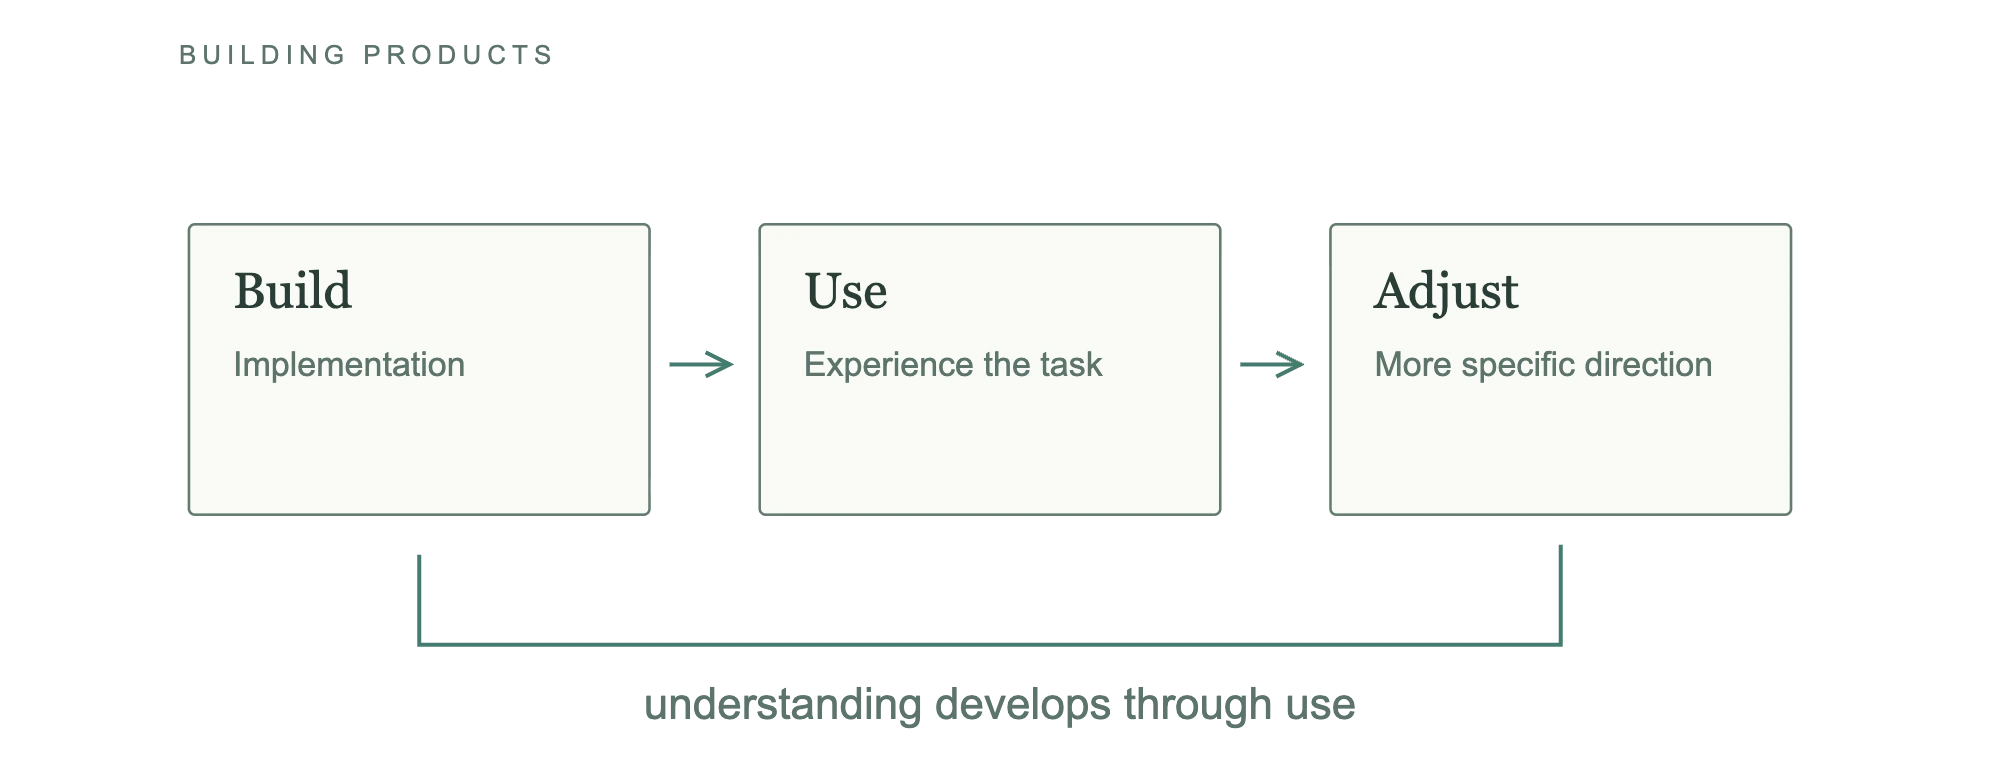
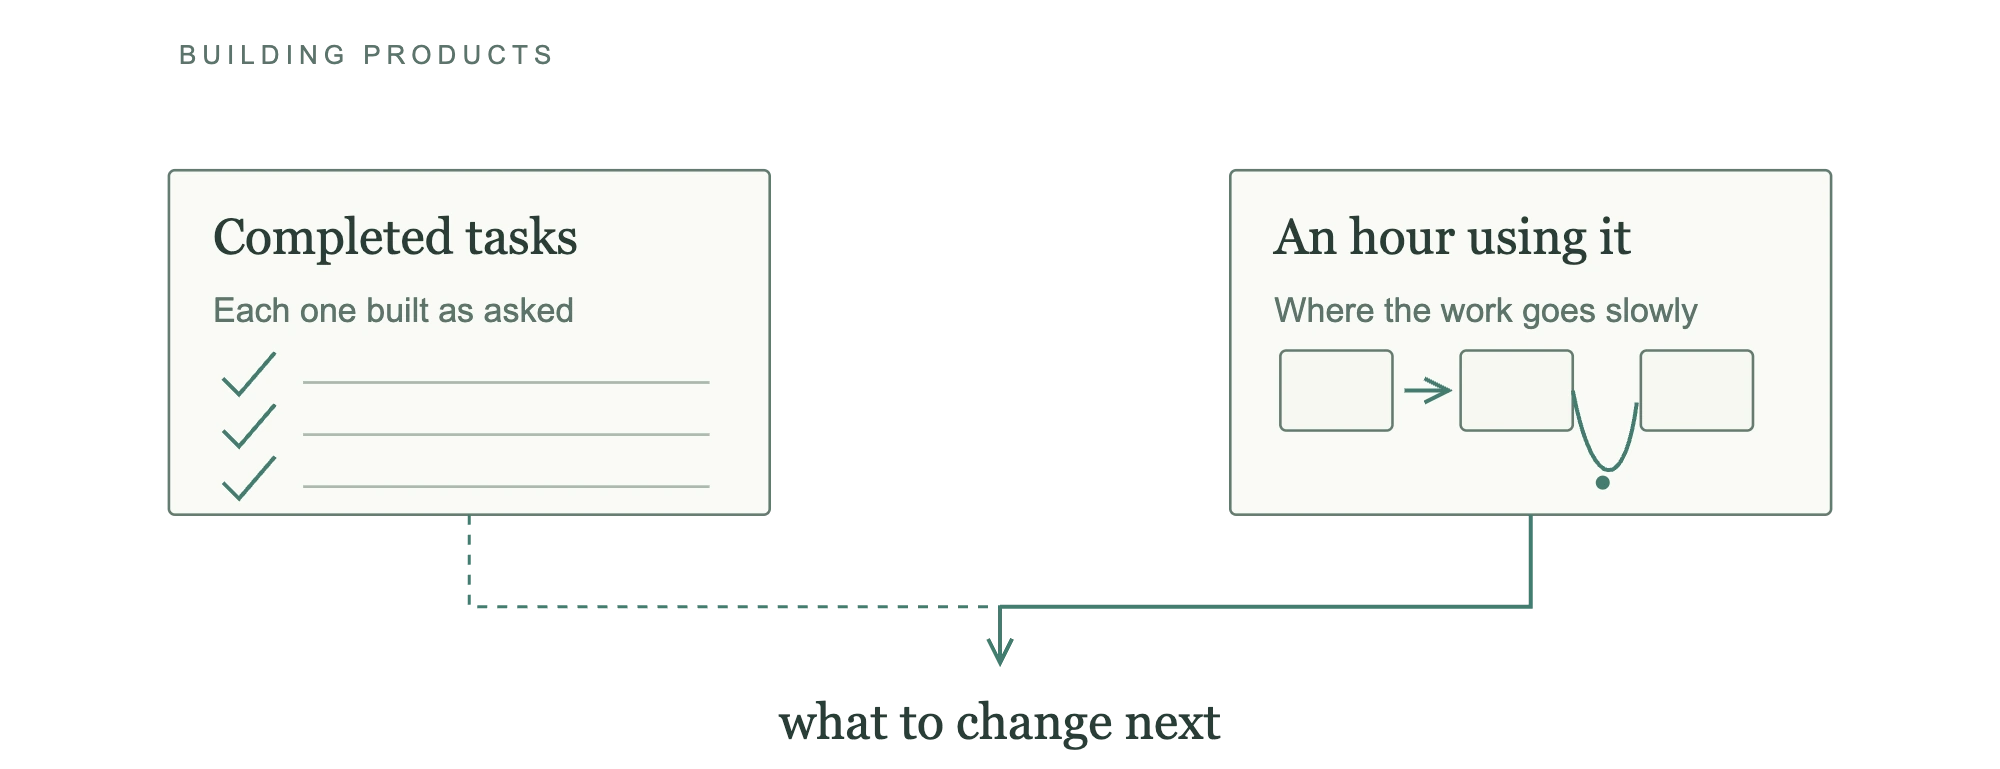
Redraw the software factory cover around the post's own comparison

diff --git a/scripts/covers/why-i-stopped-pursuing-a-software-factory.html b/scripts/covers/why-i-stopped-pursuing-a-software-factory.html
@@ -1,1 +1,1 @@
-<!doctype html><html lang="en"><head><meta charset="utf-8"><title>Why I stopped pursuing a software factory</title><style>*{box-sizing:border-box;margin:0}html,body{background:#e9ecea}.sheet{position:relative;width:var(--w);height:var(--h);overflow:hidden;background:#e2e8e3}.sheet img{position:absolute;width:100%;height:100%;object-fit:cover;filter:saturate(.45)}.wash{position:absolute;inset:0;background:linear-gradient(140deg,rgba(235,239,233,.82),rgba(230,236,232,.93))}svg{position:absolute;inset:0;width:100%;height:100%}text{font-family:Georgia,serif;fill:#293d37}.quiet,.eyebrow{font-family:Arial,sans-serif;fill:#5c746c}.eyebrow{letter-spacing:3px;font-size:13px}.box{fill:#f6f7ef;fill-opacity:.68;stroke:#637b71;stroke-width:1.3}.boundary{fill:none;stroke:#9aafa5;stroke-width:1;stroke-dasharray:4 7}.line{fill:none;stroke:#526d62;stroke-width:1.8}.accent{fill:none;stroke:#437c70;stroke-width:2}.faint{fill:none;stroke:#81978b;stroke-width:1.4;opacity:.65}.dash{fill:none;stroke:#437c70;stroke-width:1.5;stroke-dasharray:5 5}.dot{fill:#437c70}.registration{fill:none;stroke:#8da196;stroke-width:1}</style></head><body><div class="sheet"><img src="ph-offline.jpg" alt=""><div class="wash"></div><svg id="plate" xmlns="http://www.w3.org/2000/svg"><defs><marker id="arrow" markerWidth="8" markerHeight="8" refX="7" refY="4" orient="auto"><path d="M1 1 L7 4 L1 7" fill="none" stroke="#437c70" stroke-width="1"/></marker></defs><g id="content"><text x="60" y="0" font-size="13" class="eyebrow" text-anchor="start">BUILDING PRODUCTS</text><g transform="translate(0 35)"><rect x="65" y="45" width="230" height="145" rx="3" class="box"></rect><text x="87" y="87" font-size="25" class="label" text-anchor="start">Build</text><text x="87" y="121" font-size="17" class="quiet" text-anchor="start">Implementation</text><rect x="350" y="45" width="230" height="145" rx="3" class="box"></rect><text x="372" y="87" font-size="25" class="label" text-anchor="start">Use</text><text x="372" y="121" font-size="17" class="quiet" text-anchor="start">Experience the task</text><rect x="635" y="45" width="230" height="145" rx="3" class="box"></rect><text x="657" y="87" font-size="25" class="label" text-anchor="start">Adjust</text><text x="657" y="121" font-size="17" class="quiet" text-anchor="start">More specific direction</text><path d="M305 115 L335 115" class="accent" marker-end="url(#arrow)"></path><path d="M590 115 L620 115" class="accent" marker-end="url(#arrow)"></path><path d="M750 205 V255 H180 V210" class="accent"></path><text x="470" y="292" font-size="22" class="quiet" text-anchor="middle">understanding develops through use</text></g></g></svg></div><script>const [w,h]=(location.hash.slice(1)||'2000x769').split('x').map(Number);document.querySelector('.sheet').style.cssText=`--w:${w}px;--h:${h}px`;const wide=w/h>2;document.querySelector('svg').setAttribute('viewBox',`0 0 940 ${wide?384:627}`);document.getElementById('content').setAttribute('transform',`translate(0 ${wide?32:145})`);</script></body></html>
+<!doctype html><html lang="en"><head><meta charset="utf-8"><title>Why I stopped pursuing a software factory</title><style>*{box-sizing:border-box;margin:0}html,body{background:#e9ecea}.sheet{position:relative;width:var(--w);height:var(--h);overflow:hidden;background:#e2e8e3}.sheet img{position:absolute;width:100%;height:100%;object-fit:cover;filter:saturate(.45)}.wash{position:absolute;inset:0;background:linear-gradient(140deg,rgba(235,239,233,.82),rgba(230,236,232,.93))}svg{position:absolute;inset:0;width:100%;height:100%}text{font-family:Georgia,serif;fill:#293d37}.quiet,.eyebrow{font-family:Arial,sans-serif;fill:#5c746c}.eyebrow{letter-spacing:3px;font-size:13px}.box{fill:#f6f7ef;fill-opacity:.68;stroke:#637b71;stroke-width:1.3}.boundary{fill:none;stroke:#9aafa5;stroke-width:1;stroke-dasharray:4 7}.line{fill:none;stroke:#526d62;stroke-width:1.8}.accent{fill:none;stroke:#437c70;stroke-width:2}.faint{fill:none;stroke:#81978b;stroke-width:1.4;opacity:.65}.dash{fill:none;stroke:#437c70;stroke-width:1.5;stroke-dasharray:5 5}.dot{fill:#437c70}.registration{fill:none;stroke:#8da196;stroke-width:1}</style></head><body><div class="sheet"><img src="ph-offline.jpg" alt=""><div class="wash"></div><svg id="plate" xmlns="http://www.w3.org/2000/svg"><defs><marker id="arrow" markerWidth="8" markerHeight="8" refX="7" refY="4" orient="auto"><path d="M1 1 L7 4 L1 7" fill="none" stroke="#437c70" stroke-width="1"/></marker></defs><g id="content"><text x="60" y="0" font-size="13" class="eyebrow" text-anchor="start">BUILDING PRODUCTS</text><g transform="translate(0 35)"><rect x="55" y="18" width="300" height="172" rx="3" class="box"></rect><text x="77" y="60" font-size="25" class="label" text-anchor="start">Completed tasks</text><text x="77" y="94" font-size="17" class="quiet" text-anchor="start">Each one built as asked</text><path d="M82 122 l8 8 l18 -21" class="accent"></path><path d="M122 124 L325 124" class="faint"></path><path d="M82 148 l8 8 l18 -21" class="accent"></path><path d="M122 150 L325 150" class="faint"></path><path d="M82 174 l8 8 l18 -21" class="accent"></path><path d="M122 176 L325 176" class="faint"></path><rect x="585" y="18" width="300" height="172" rx="3" class="box"></rect><text x="607" y="60" font-size="25" class="label" text-anchor="start">An hour using it</text><text x="607" y="94" font-size="17" class="quiet" text-anchor="start">Where the work goes slowly</text><rect x="610" y="108" width="56" height="40" rx="3" class="box"></rect><rect x="700" y="108" width="56" height="40" rx="3" class="box"></rect><rect x="790" y="108" width="56" height="40" rx="3" class="box"></rect><path d="M672 128 L694 128" class="accent" marker-end="url(#arrow)"></path><path d="M756 128 C 766 180, 782 180, 788 134" class="accent"></path><circle cx="771" cy="174" r="3.5" class="dot"></circle><path d="M205 190 V236 H470" class="dash"></path><path d="M735 190 V236 H470" class="accent"></path><path d="M470 236 L470 264" class="accent" marker-end="url(#arrow)"></path><text x="470" y="302" font-size="25" class="label" text-anchor="middle">what to change next</text></g></g></svg></div><script>const [w,h]=(location.hash.slice(1)||'2000x769').split('x').map(Number);document.querySelector('.sheet').style.cssText=`--w:${w}px;--h:${h}px`;const wide=w/h>2;document.querySelector('svg').setAttribute('viewBox',`0 0 940 ${wide?384:627}`);document.getElementById('content').setAttribute('transform',`translate(0 ${wide?32:145})`);</script></body></html>

diff --git a/scripts/covers/industry-plates.py b/scripts/covers/industry-plates.py
@@ -38,7 +38,19 @@ def drawing(i):
   return ''.join(circle(x,80,42)+text(x,88,str(n),26,anchor='middle')+text(x,164,a,24,anchor='middle')+text(x,200,b,18,'quiet','middle') for x,n,a,b in [(160,1,'Study','Meet the idea'),(470,2,'Recall','Try without the text'),(780,3,'Return','Check after a delay')])+arrow(220,80,410,80)+arrow(530,80,720,80)
  if i==9:
   return ''.join(line(80,40+j*33,370,40+j*33,'faint') for j in range(6))+path('M80 139 H370 L510 139','accent')+text(220,265,'alternatives tried',23,anchor='middle')+arrow(520,139,620,139)+rect(650,35,210,200)+text(755,125,'New data',26,anchor='middle')+text(755,160,'evaluation',18,'quiet','middle')+text(470,15,'keep the search history',20,'quiet','middle')
- return card(65,45,230,145,'Build','Implementation')+card(350,45,230,145,'Use','Experience the task')+card(635,45,230,145,'Adjust','More specific direction')+arrow(305,115,335,115)+arrow(590,115,620,115)+path('M750 205 V255 H180 V210','accent')+text(470,292,'understanding develops through use',22,'quiet','middle')
+ # Two sources of direction, weighted against each other, which is the post's actual claim:
+ # a finished list says less about what to change than an hour of use does. The connector
+ # carries that, dashed from the list and accented from the use.
+ return (card(55,18,300,172,'Completed tasks','Each one built as asked')
+  +''.join(check(82,122+26*j)+line(122,124+26*j,325,124+26*j,'faint') for j in range(3))
+  +card(585,18,300,172,'An hour using it','Where the work goes slowly')
+  +''.join(rect(x,108,56,40) for x in (610,700,790))
+  +arrow(672,128,694,128)
+  +path('M756 128 C 766 180, 782 180, 788 134','accent')+circle(771,174,3.5,'dot')
+  +path('M205 190 V236 H470','dash')
+  +path('M735 190 V236 H470','accent')
+  +arrow(470,236,470,264)
+  +text(470,302,'what to change next',25,anchor='middle'))
 style='''*{box-sizing:border-box;margin:0}html,body{background:#e9ecea}.sheet{position:relative;width:var(--w);height:var(--h);overflow:hidden;background:#e2e8e3}.sheet img{position:absolute;width:100%;height:100%;object-fit:cover;filter:saturate(.45)}.wash{position:absolute;inset:0;background:linear-gradient(140deg,rgba(235,239,233,.82),rgba(230,236,232,.93))}svg{position:absolute;inset:0;width:100%;height:100%}text{font-family:Georgia,serif;fill:#293d37}.quiet,.eyebrow{font-family:Arial,sans-serif;fill:#5c746c}.eyebrow{letter-spacing:3px;font-size:13px}.box{fill:#f6f7ef;fill-opacity:.68;stroke:#637b71;stroke-width:1.3}.boundary{fill:none;stroke:#9aafa5;stroke-width:1;stroke-dasharray:4 7}.line{fill:none;stroke:#526d62;stroke-width:1.8}.accent{fill:none;stroke:#437c70;stroke-width:2}.faint{fill:none;stroke:#81978b;stroke-width:1.4;opacity:.65}.dash{fill:none;stroke:#437c70;stroke-width:1.5;stroke-dasharray:5 5}.dot{fill:#437c70}.registration{fill:none;stroke:#8da196;stroke-width:1}'''
 for d in items:
  i=d['index']; art=drawing(i)
